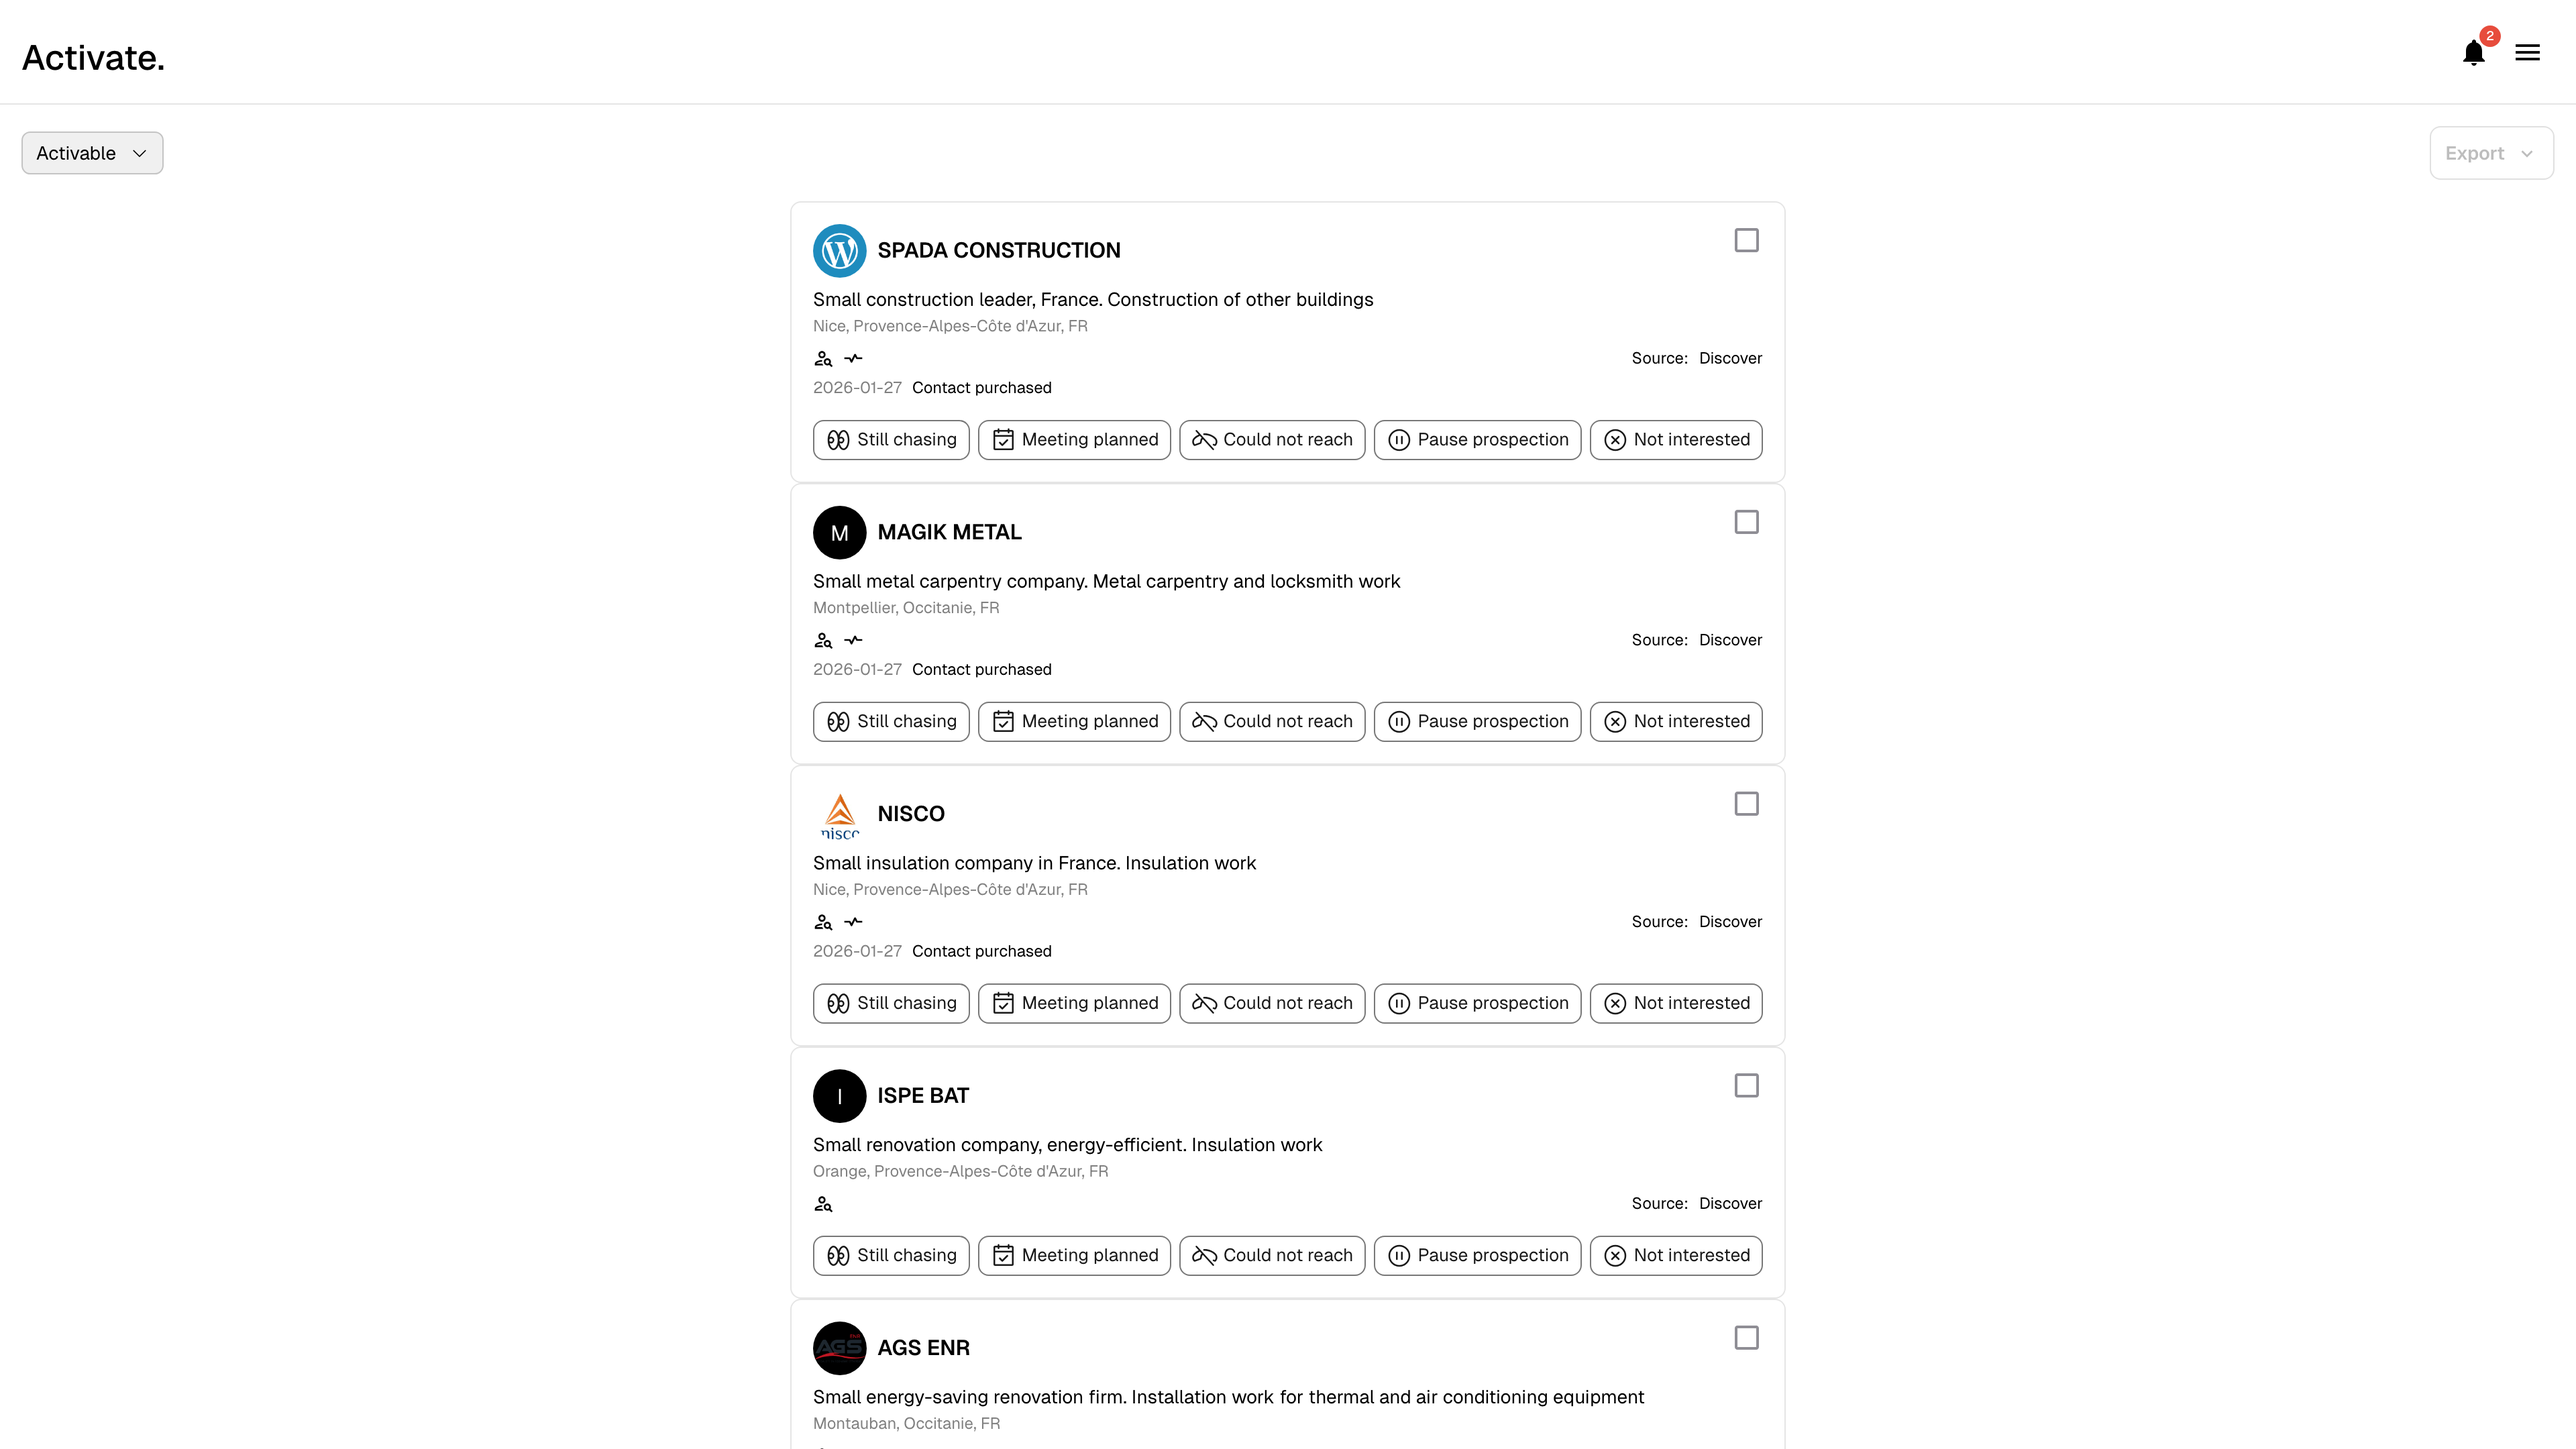
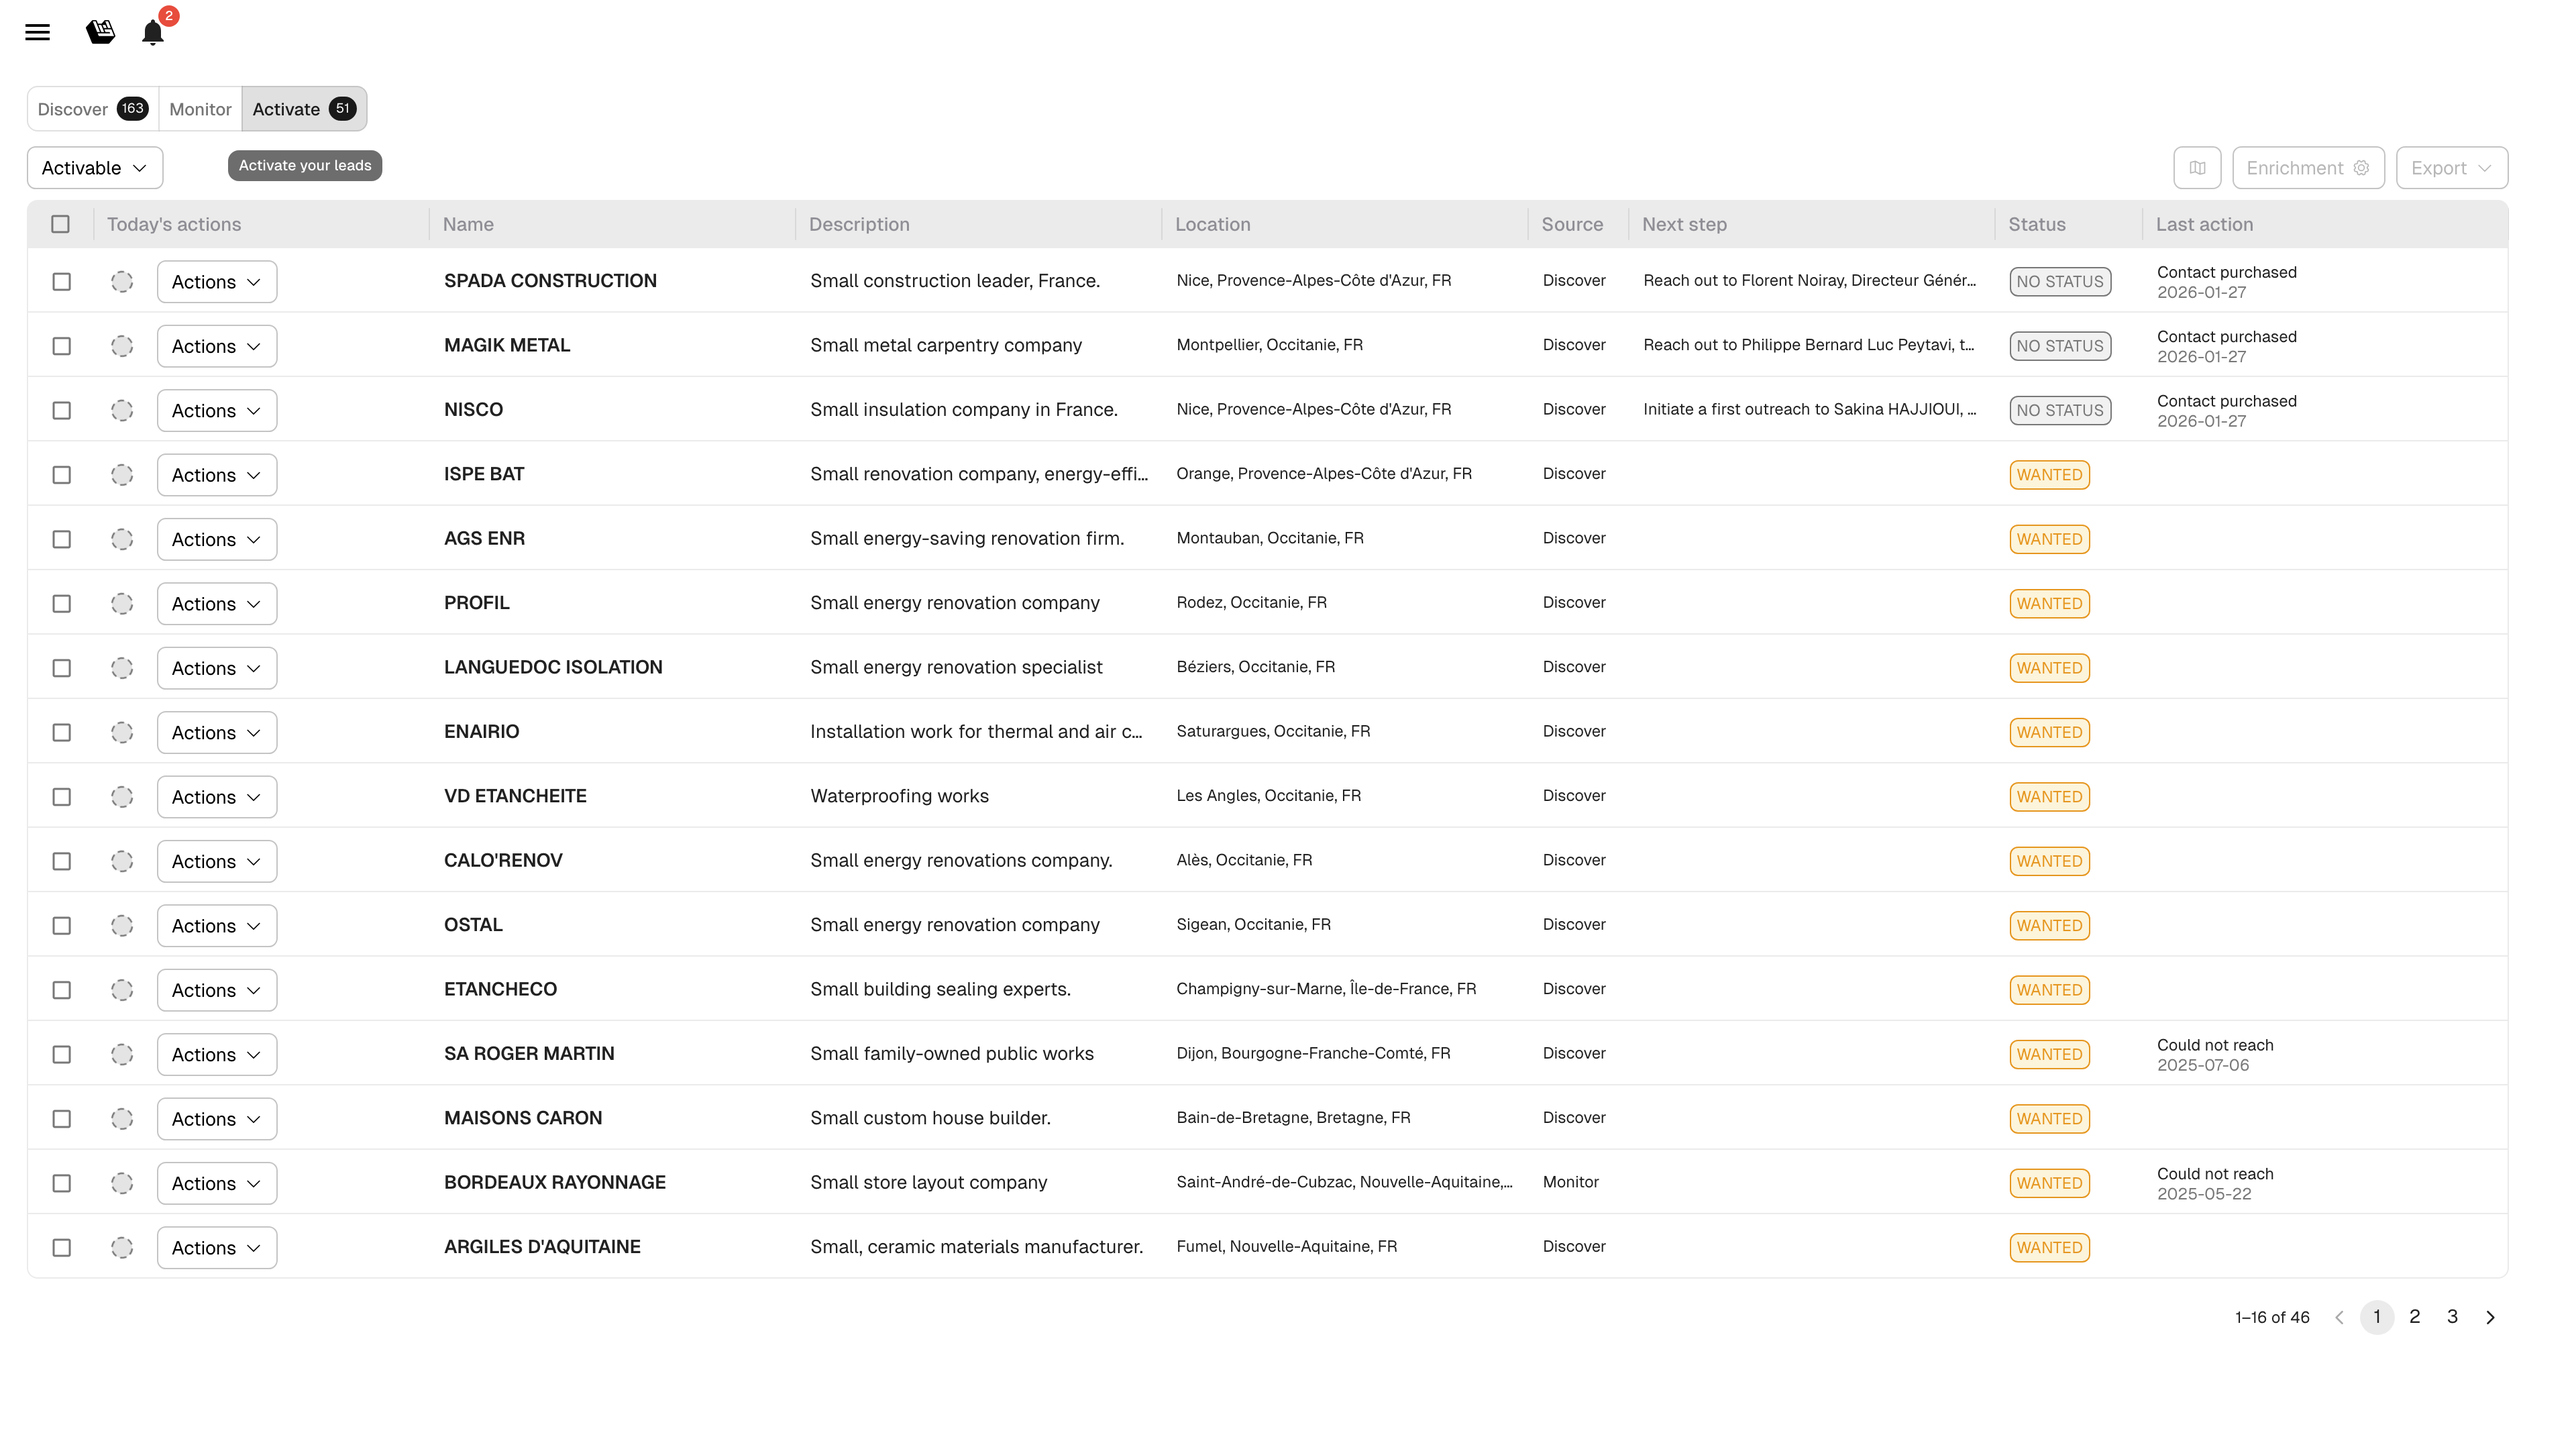
Replace all screenshots with desktop app captures and add missing visuals
Screenshots now captured from the desktop web app (leadbay.app) instead of
the mobile PWA, showing the correct table layout, top navigation, and split
panel views. Added new screenshots for Export and lead detail panel, and
updated docs (EN+FR) to reference them.

diff --git a/fr/product-guides/discover-monitor-activate.md b/fr/product-guides/discover-monitor-activate.md
@@ -39,6 +39,8 @@ Des leads recommandés par l'IA en fonction de votre ICP, de vos affaires gagné
 - **Dislike** (pouce vers le bas) : indique au modèle « pas pertinent ». Le lead est retiré de Discover.
 - **Cliquer sur un lead** pour ouvrir sa fiche et consulter les détails.
 
+<figure><img src="../../.gitbook/assets/screenshot-discover-detail.png" alt=""><figcaption><p>Panneau de détail d'un lead (vue scindée)</p></figcaption></figure>
+
 **Comment la liste se renouvelle :** Leadbay alimente en continu Discover avec de nouveaux leads. Les leads ignorés sont automatiquement remplacés. Les leads exportés passent dans Monitor.
 
 {% hint style="info" %}

diff --git a/product-guides/lenses.md b/product-guides/lenses.md
@@ -10,7 +10,7 @@ Lenses also power AI recommendations: the system learns from your likes and wins
 
 The lens selector appears at the top of the page. Pick a lens from the dropdown to instantly load its filters and recommendations.
 
-<figure><img src="../.gitbook/assets/Capture d'écran 2025-08-20 à 10.53.45.png" alt="" width="375"><figcaption><p>Lens selector</p></figcaption></figure>
+<figure><img src="../.gitbook/assets/screenshot-lenses.png" alt=""><figcaption><p>Lens selector</p></figcaption></figure>
 
 Whatever filters you change remain attached to the currently selected lens. Switch lenses and the parameters change with it.
 

diff --git a/product-guides/discover-monitor-activate.md b/product-guides/discover-monitor-activate.md
@@ -39,6 +39,8 @@ AI-recommended leads based on your ICP (Ideal Customer Profile), past wins, and 
 - **Dislike** (thumbs down): tells the model "not relevant." The lead is removed from Discover.
 - **Click a lead** to open its profile for details before deciding.
 
+<figure><img src="../.gitbook/assets/screenshot-discover-detail.png" alt=""><figcaption><p>Lead detail panel (split view)</p></figcaption></figure>
+
 **How it refreshes:** Leadbay continuously brings fresh leads into Discover. Leads you ignore for a while are automatically cycled out to make room for new ones. Exported leads move to Monitor.
 
 {% hint style="info" %}

diff --git a/fr/product-guides/lenses.md b/fr/product-guides/lenses.md
@@ -10,7 +10,7 @@ Les Lenses alimentent aussi les recommandations IA : le système apprend de vos 
 
 Le sélecteur de lens apparaît en haut de la page. Choisissez une lens dans le menu déroulant pour charger instantanément ses filtres et recommandations.
 
-<figure><img src="../../.gitbook/assets/Capture d'écran 2025-08-20 à 10.53.45.png" alt="" width="375"><figcaption><p>Sélecteur de lens</p></figcaption></figure>
+<figure><img src="../../.gitbook/assets/screenshot-lenses.png" alt=""><figcaption><p>Sélecteur de lens</p></figcaption></figure>
 
 ---
 

diff --git a/product-guides/export.md b/product-guides/export.md
@@ -2,6 +2,8 @@
 
 Export leads from any tab to use them outside Leadbay — in your CRM, email tool, or spreadsheet.
 
+<figure><img src="../.gitbook/assets/screenshot-export.png" alt=""><figcaption><p>Exporting leads</p></figcaption></figure>
+
 ---
 
 ## How to Export

diff --git a/fr/product-guides/export.md b/fr/product-guides/export.md
@@ -2,6 +2,8 @@
 
 Exportez des leads depuis n'importe quel onglet pour les utiliser en dehors de Leadbay.
 
+<figure><img src="../../.gitbook/assets/screenshot-export.png" alt=""><figcaption><p>Export de leads</p></figcaption></figure>
+
 ---
 
 ## Comment exporter
